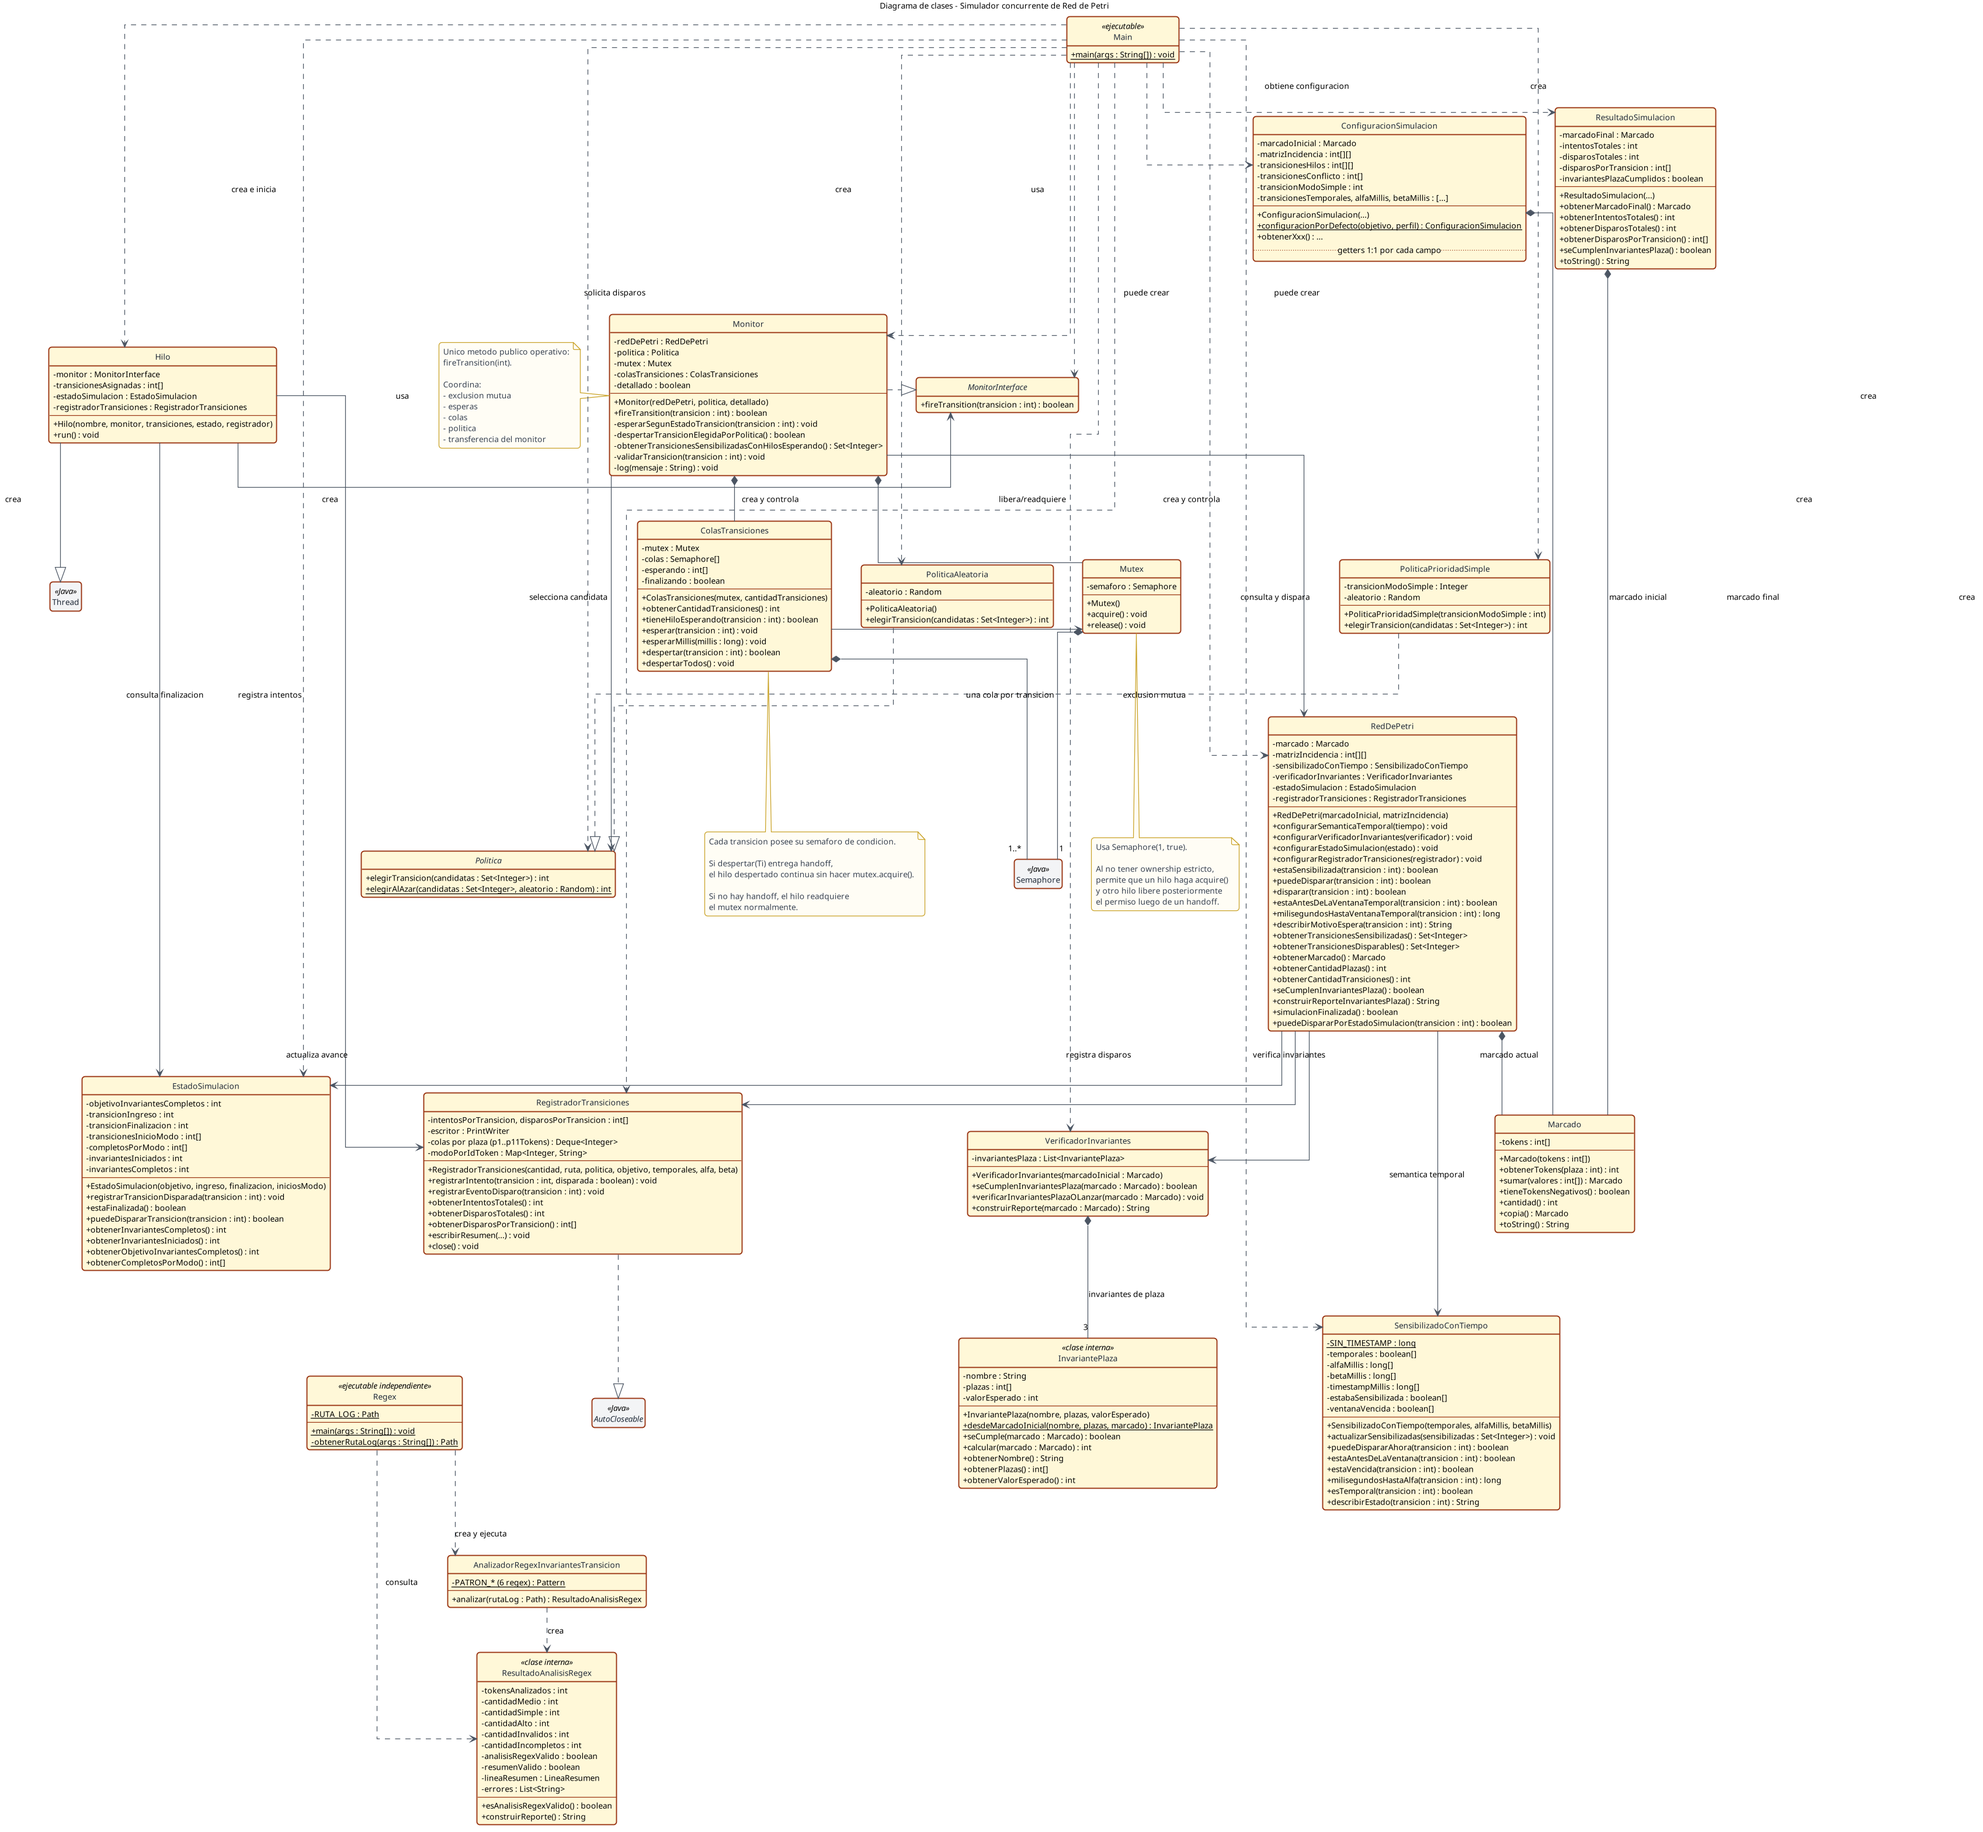
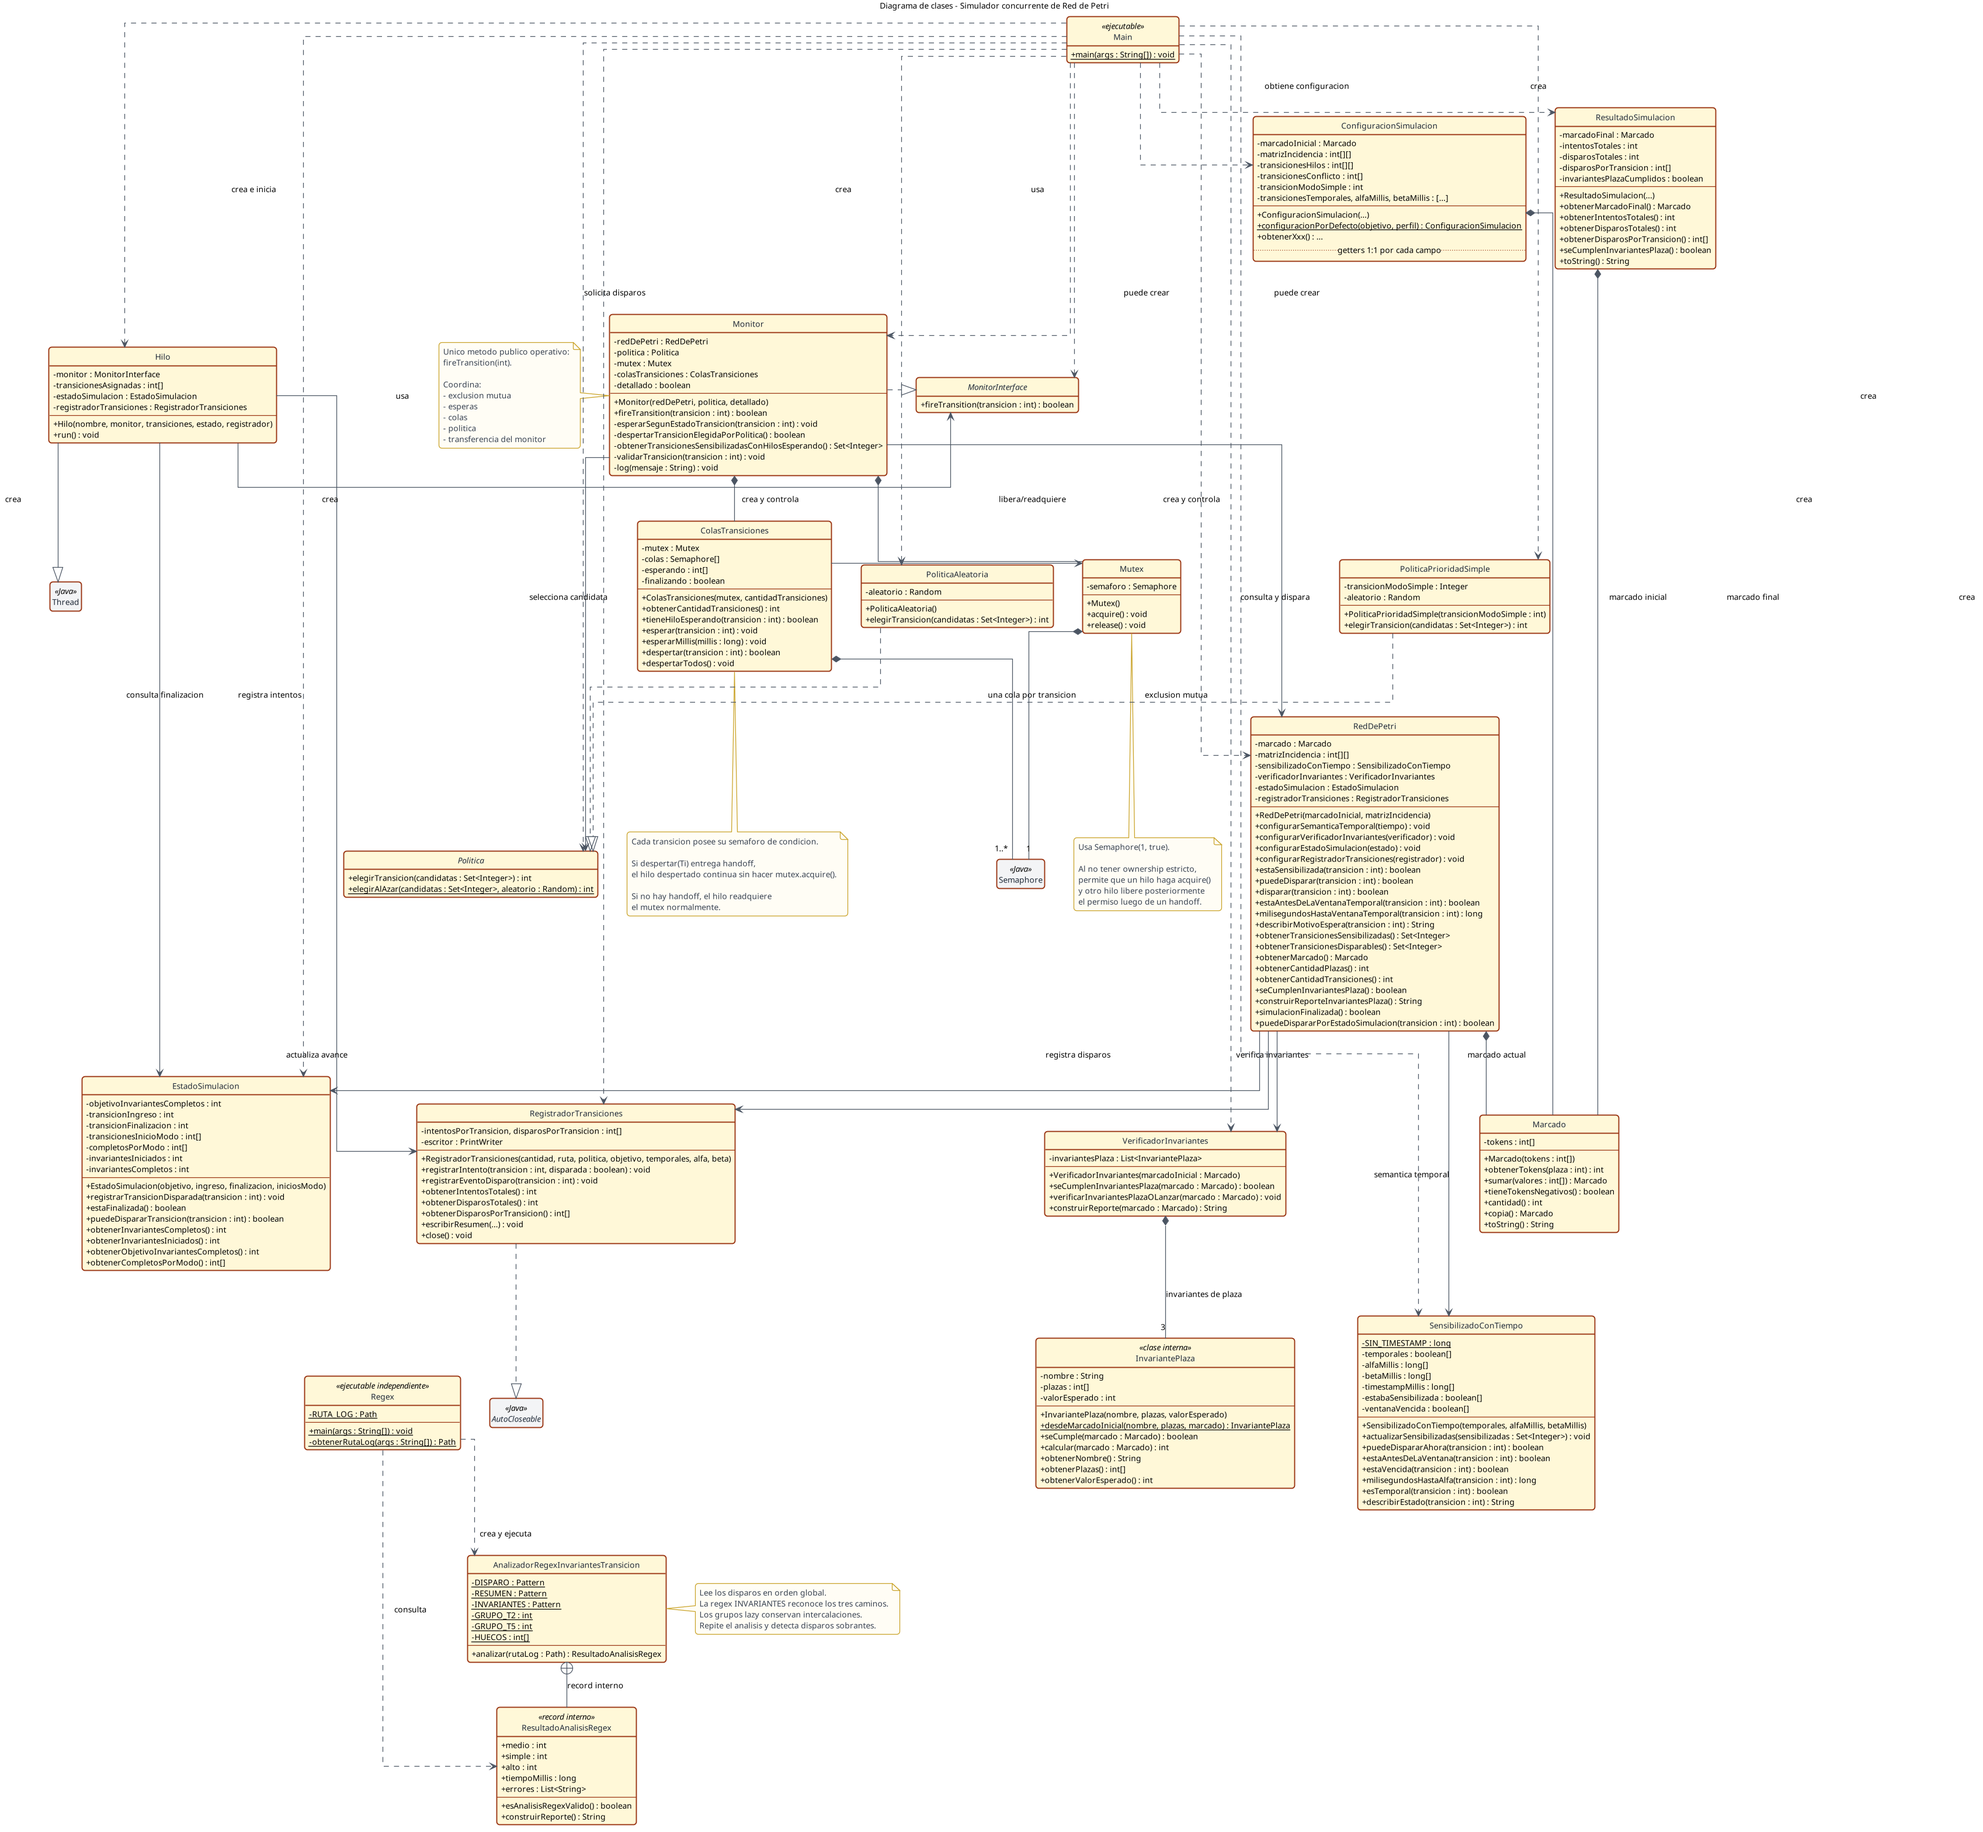
actualizacion de diagrama con Regex

diff --git a/README.md b/README.md
@@ -60,15 +60,47 @@ Para ver por consola cada intento, espera y disparo, cambiar `DETALLADO` a `true
 En todos los perfiles beta es `Long.MAX_VALUE` (sin vencimiento); la justificación está
 en la sección "Semántica temporal" del informe.
 
+
 ## Verificar el log con expresiones regulares
+
+Al finalizar la simulación, el archivo de log contiene los disparos exitosos
+en su orden global de ejecución, utilizando el formato `disparada=Ti`.
+
+La clase `Regex` realiza un análisis independiente del log:
 
 ```bash
 java -cp out ar.edu.unc.concurrente.aplicacion.Regex [ruta-log]
 ```
 
-Reconstruye el camino de cada token, lo clasifica como modo simple, medio o alto
-mediante expresiones regulares y lo contrasta con lo registrado por la simulación.
-Termina con código de salida 1 si encuentra caminos inválidos o incompletos.
+Ejemplo:
+
+```bash
+java -cp out ar.edu.unc.concurrente.aplicacion.Regex logs/simulacion.log
+```
+
+El analizador construye una cadena con las transiciones registradas y utiliza
+una única expresión regular que agrupa los tres invariantes de transición:
+
+- Medio: T0, T1, T2, T3, T4, T11.
+- Simple: T0, T1, T5, T6, T11.
+- Alto: T0, T1, T7, T8, T9, T10, T11.
+
+La expresión contiene alternativas (`|`) para los tres caminos y grupos
+lazy (`.*?`) que permiten reconocer transiciones intercaladas durante la
+ejecución concurrente.
+
+Cada coincidencia identifica un invariante completo. Sus transiciones se
+eliminan de la cadena, conservando los disparos intercalados, y el análisis
+se repite hasta que no se encuentran nuevas coincidencias.
+
+La validación es correcta cuando todos los disparos quedan asociados a
+invariantes completos y los conteos coinciden con el resumen de la ejecución.
+
+Si existen transiciones sobrantes, errores de formato o inconsistencias,
+el programa informa los errores y finaliza con código de salida 1.
+
+El análisis utiliza la clase `AnalizadorRegexInvariantesTransicion`
+y no requiere identificar individualmente los datos procesados.
 
 ## Qué muestra la salida
 
